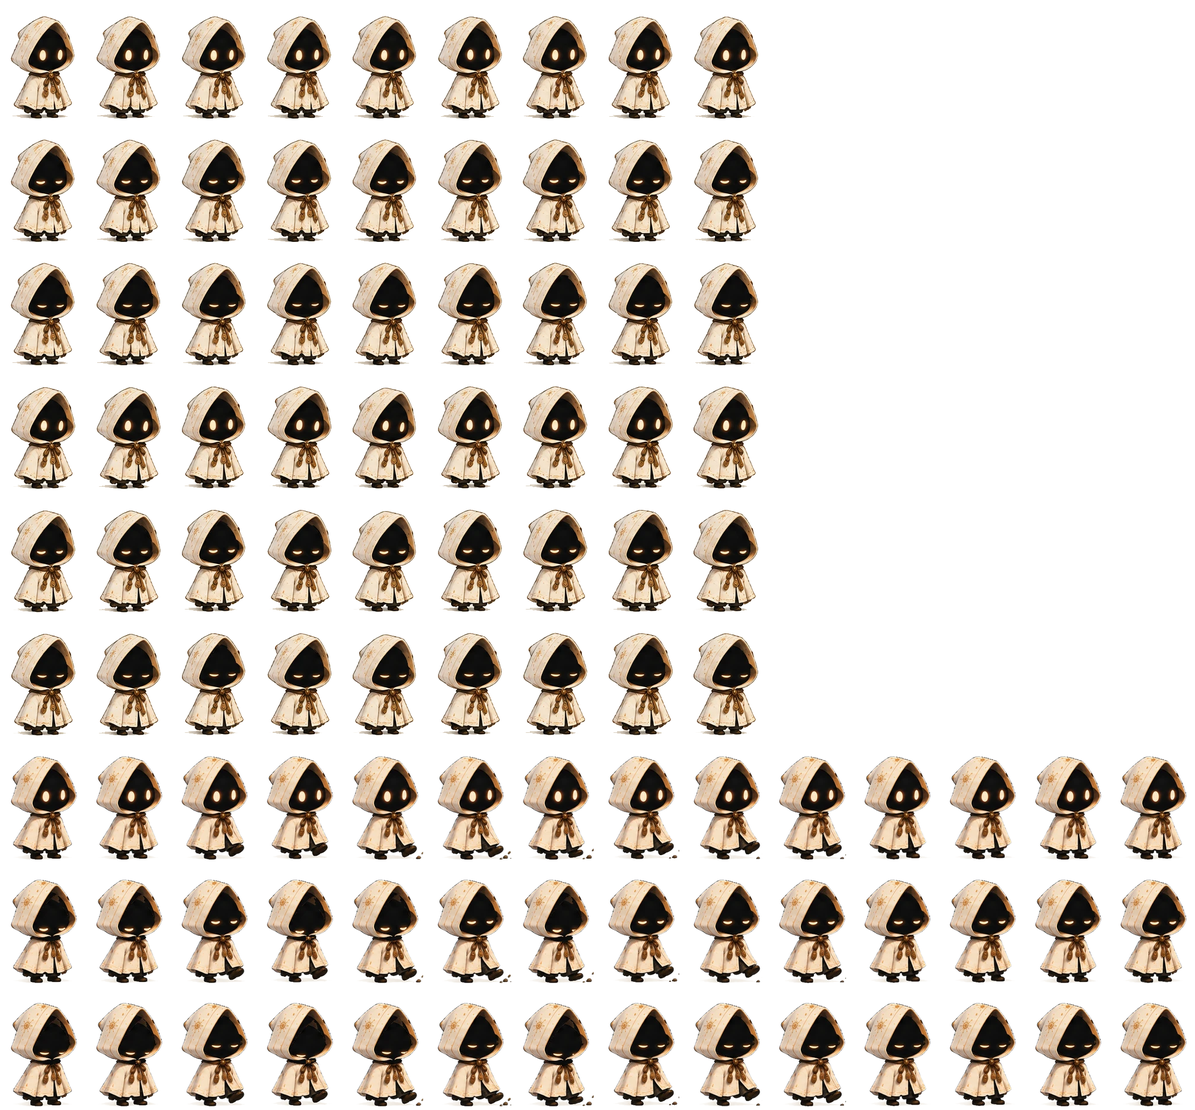
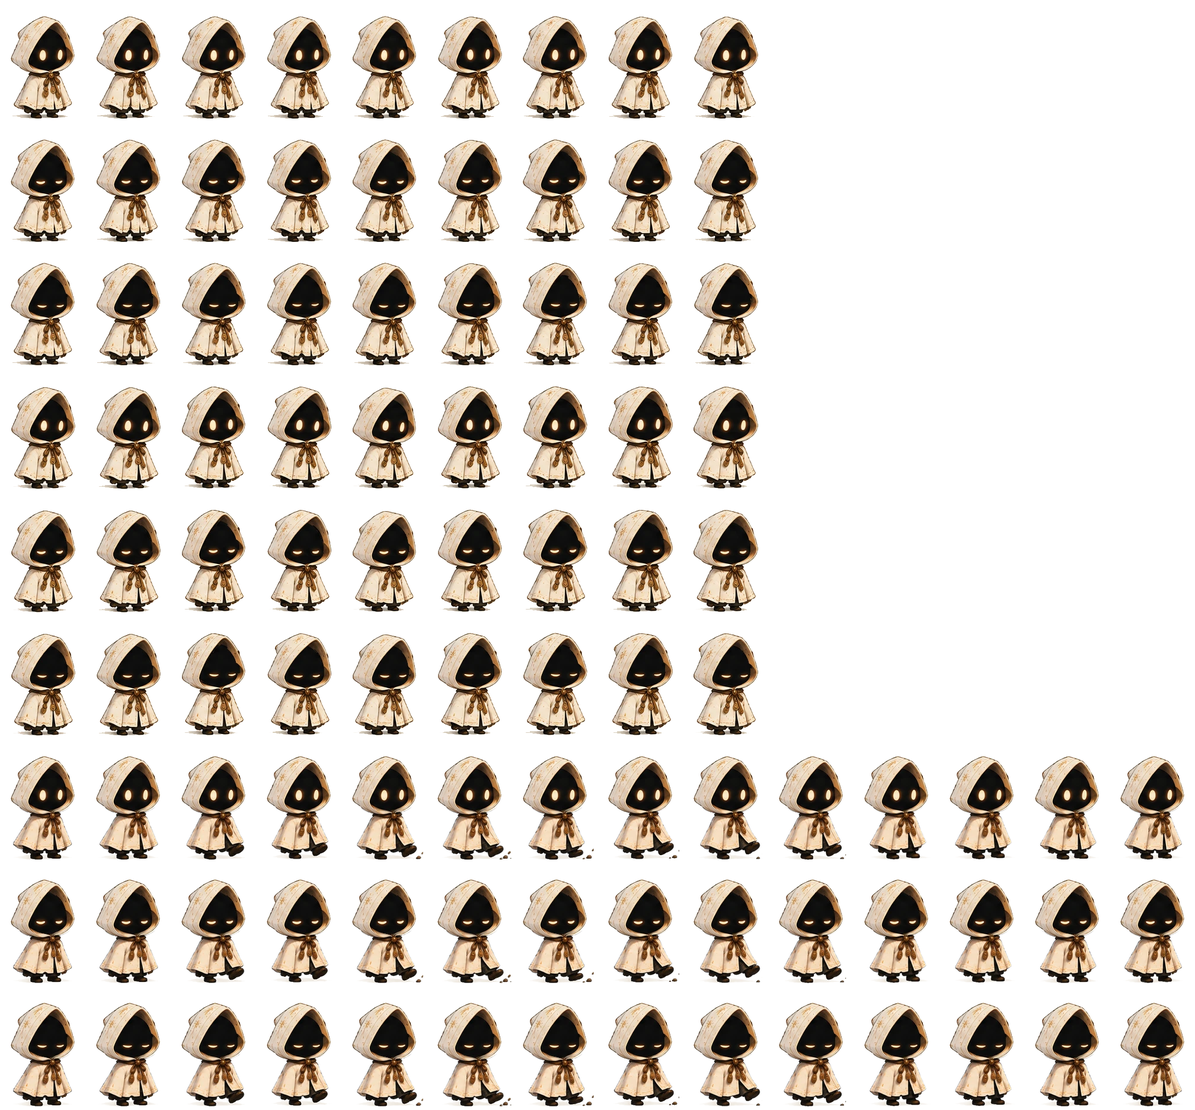
ux: no head turn at the hand-over — the foot frames hold the breath rest frame's head; a hand-over fades at the variation's pace both ways
- scripts/cut-lumi-idle.py: hold_head() takes a donor; the foot loop holds breath[0]'s head (blended in over the collar rows above the ribbon), so the head is one drawing through the loop and on both sides of the hand-over. The foot sheet's hood is not quite the slow-idle drawing, and the crossfade between them read as a small head turn — crisp on the way out, blurry on the way back.
- LumiCompanion: the fade length comes from the faster of the two loops involved (prev and cur), so the hand-over back to breathing fades in ~100ms like the one out, not 260ms.
- docs: design-system sprite + companion paragraphs; decisions entry.

Changed region(s): [[0.0, 0.6816, 1.0, 0.7436], [0.0, 0.8985, 1.0, 0.9605], [0.0, 0.7746, 1.0, 0.8675]]

diff --git a/src/components/shell/LumiCompanion.tsx b/src/components/shell/LumiCompanion.tsx
@@ -15,12 +15,15 @@ const FRAME_MS: Record<LumiLoop, number> = {
 /** Loops mixed into the breathing now and then, one pass at a time. */
 const VARIATIONS: LumiLoop[] = ["sway", "foot"];
 /**
- * How long a frame fades in over the last: most of its own frame time, so it
- * is fully in before the next arrives. A fixed 260ms on the foot's 120ms
- * frames left every frame a third of the way in when it was replaced and
- * snapped to full — a soft doubling of the hood wherever frames differed.
+ * How long a frame fades in over the last: most of the frame time of the
+ * faster of the two loops involved, so it is fully in before the next arrives.
+ * A fixed 260ms on the foot's 120ms frames left every frame a third of the way
+ * in when it was replaced and snapped to full — a soft doubling of the hood
+ * wherever frames differed. A hand-over fades at the variation's pace in both
+ * directions: the way out was crisp, the way back (at the breath's 260ms)
+ * read as a slow, blurry turn of the head.
  */
-const fadeMs = (loop: LumiLoop) => Math.min(260, Math.round(FRAME_MS[loop] * 0.8));
+const fadeMs = (a: LumiLoop, b: LumiLoop) => Math.min(260, Math.round(Math.min(FRAME_MS[a], FRAME_MS[b]) * 0.8));
 
 type Pose = { loop: LumiLoop; frame: number };
 const REST: Pose = { loop: "breath", frame: 0 };
@@ -157,7 +160,7 @@ export function LumiCompanion() {
           aria-label={onChat ? "Message Lumi" : "Say something to Lumi"}
           aria-expanded={onChat ? undefined : open}
         >
-          <span className="companion-figure" style={{ ...cellSize("body", HEIGHT), "--fade": `${fadeMs(pose.cur.loop)}ms` } as CSSProperties} aria-hidden>
+          <span className="companion-figure" style={{ ...cellSize("body", HEIGHT), "--fade": `${fadeMs(pose.cur.loop, pose.prev.loop)}ms` } as CSSProperties} aria-hidden>
             {stack.map((p, i) => (
               <LumiSprite
                 key={key(p)}

diff --git a/scripts/cut-lumi-idle.py b/scripts/cut-lumi-idle.py
@@ -249,21 +249,25 @@ def settle(cell, ref, reach=12, fine=1.0, step=0.25):
     return cell if fx == 0 and fy == 0 else shift(cell, fx, fy)
 
 
-def hold_head(cells, top=112, bottom=124):
-    """An animation hold: every frame keeps frame 0's head. The sheet is one
-    drawing with only the foot moving, but the generator still redrew the hood
-    rim and its sun a little each frame, which the crossfade showed as a soft
-    shimmer around her head. Blended in over the collar rows (`top`..`bottom`)
-    on premultiplied channels, so the seam sits under the chin, inside the figure."""
+def hold_head(cells, donor, top=112, bottom=124):
+    """An animation hold: every frame keeps the donor's head — the breath rest
+    frame's, so the head is the same drawing on both sides of the hand-over and
+    through the loop. (The foot sheet is one drawing with only the foot moving,
+    but the generator still redrew the hood rim and its sun a little each frame,
+    and its hood is not quite the slow-idle sheet's: under the crossfade both
+    read as a soft shimmer or a small head turn.) Blended in over the collar
+    rows (`top`..`bottom`) on premultiplied channels, so the seam sits under the
+    chin, inside the figure, above the ribbon; the cloak below keeps its own
+    movement, which the kick carries all the way up to the collar."""
     def pre(c):
         a = c[:, :, 3:4].astype(float) / 255
         return np.dstack([c[:, :, :3] * a, c[:, :, 3:4].astype(float)])
     def straight(p):
         a = np.clip(p[:, :, 3:4], 0, 255)
         return np.dstack([np.clip(p[:, :, :3] / np.maximum(a / 255, 1e-3), 0, 255), a]).astype(np.uint8)
-    w = np.clip((np.arange(H) - top) / (bottom - top), 0, 1)[:, None, None]  # 0 = frame 0's head, 1 = the frame's own
-    p0 = pre(cells[0])
-    return [cells[0]] + [straight((1 - w) * p0 + w * pre(c)) for c in cells[1:]]
+    w = np.clip((np.arange(H) - top) / (bottom - top), 0, 1)[:, None, None]  # 0 = the donor's head, 1 = the frame's own
+    p0 = pre(donor)
+    return [straight((1 - w) * p0 + w * pre(c)) for c in cells]
 
 
 def with_eyes(target, donor):
@@ -298,7 +302,7 @@ foot = [cut_foot(playful, boxes[i]) for i in FOOT_ORDER]
 # rest pose (so the hand-over doesn't step sideways), then the rest onto frame 0.
 foot[0] = settle(foot[0], breath[0])
 foot[1:] = [settle(c, foot[0]) for c in foot[1:]]
-foot = hold_head(foot)
+foot = hold_head(foot, breath[0])
 
 loops = [breath, sway, foot]
 sheet = np.zeros((H * 3 * len(loops), W * COLS, 4), dtype=np.uint8)

diff --git a/docs/design-system.md b/docs/design-system.md
@@ -84,13 +84,13 @@ Heading defaults: none imposed. Headings are display-font lines set per surface;
 A chapter opening, not a card (2026-09-12: the boxed `.card.plate` read as a widget dropped onto the page). Set on the paper itself the way a chapter begins in a book: a headpiece across the measure (hairline · asterism · hairline, `.opening-head`), Lumi's portrait medallion in the margin, the first line as the title (38px display), the second beneath it in the softer ink (26px), then the quick-start chips. Lines come from `core/ai/greeting.ts` — never hardcode copy in the component. It is the chapter mark of the transcript (`MessageList`): everything from before this page open above it, this visit below; the page opens scrolled to it. No rule or box between the earlier messages and the greeting — the headpiece and the white space are the break. Within a sitting (`compact`) it is a running head: the same headpiece, a 44px portrait, 26/20px lines, no chips. It matches Today's opener (avatar beside a display-serif greeting on bare paper), so the two pages open the same way.
 
 ### Lumi sprites (`components/chat/LumiSprite.tsx`)
-The single source of Lumi's drawings. `public/lumi-heads.png`: one row of 176px square cells cut from the original `lumi.png` character sheet (not kept) — neutral · blink · happy · curious · excited · sleepy. `public/lumi-idle.webp`: a 14×9 grid of 144×208 cells, three rows per loop (open, half-shut and shut eyes — the blink frames composited on, so blinking and the loops run together): rows 0–2 the nine-frame **breath** loop and rows 3–5 the nine-frame **sway** loop from `art/lumi-slow-idle.png`, rows 6–8 the fourteen-frame **playful foot** loop from `art/lumi-idle.png` (shorter loops leave their trailing columns empty; `LUMI_LOOP_FRAMES` holds each loop's length). Every frame is the same pose at the same scale, centred on the figure and anchored on the feet baseline (the sheet's own spacing wobbles, so its offsets read as a slide); every loop starts and ends at the rest frame, so they hand over there. Cut by `scripts/cut-lumi-idle.py`: paper is flood-filled from outside the figure, so the cream hood survives the matte; on a contrasting ground (`contrast=True`, the foot sheet's grey-blue) the edge band is de-matted against the ground using the nearest interior pixel as the figure's own colour, and the shadow is read by its blue cast and redrawn in the slow-idle sheet's warm shadow tone (`SHADOW_RGB`), so nothing cold or grey rims her on the paper. The foot sheet is sixteen in-betweened frames of one drawing where only the foot and the flicked-up dirt move (the earlier eight-frame sheet redrew the whole figure each frame, so she boiled and the foot jumped); it is drawn larger, so its frames are scaled to 0.71 (hood top and width land on the breath loop's pixels), centred on the figure like the rest and then **settled on the head silhouette** — frame 0 onto the breath rest frame, the others onto frame 0; whole pixels sideways, then a quarter-pixel refinement in both axes (cubic resample on premultiplied channels), because a frame half a pixel off its neighbour doubles the hood's edge under the crossfade — and then **held**: every frame keeps frame 0's head, blended in over the collar rows on premultiplied channels (`hold_head`), because the generator still redrew the hood rim and its sun a little each frame and the crossfade showed it as a shimmer. The head holds still while the foot kicks, exactly. The sheet is two scuffs with a full return to rest between them; the cut takes frames 1–7 and 10–16 so the loop is one eased kick out and back. (Centring frames on the dark face instead had her hop ~14px on every hand-over, since her face sits right of her hood's centre.) `LumiSprite` draws one cell at a height via `background-position`; `headCell` / `idleCell` address them. A new state is a new cell, never a new component.
+The single source of Lumi's drawings. `public/lumi-heads.png`: one row of 176px square cells cut from the original `lumi.png` character sheet (not kept) — neutral · blink · happy · curious · excited · sleepy. `public/lumi-idle.webp`: a 14×9 grid of 144×208 cells, three rows per loop (open, half-shut and shut eyes — the blink frames composited on, so blinking and the loops run together): rows 0–2 the nine-frame **breath** loop and rows 3–5 the nine-frame **sway** loop from `art/lumi-slow-idle.png`, rows 6–8 the fourteen-frame **playful foot** loop from `art/lumi-idle.png` (shorter loops leave their trailing columns empty; `LUMI_LOOP_FRAMES` holds each loop's length). Every frame is the same pose at the same scale, centred on the figure and anchored on the feet baseline (the sheet's own spacing wobbles, so its offsets read as a slide); every loop starts and ends at the rest frame, so they hand over there. Cut by `scripts/cut-lumi-idle.py`: paper is flood-filled from outside the figure, so the cream hood survives the matte; on a contrasting ground (`contrast=True`, the foot sheet's grey-blue) the edge band is de-matted against the ground using the nearest interior pixel as the figure's own colour, and the shadow is read by its blue cast and redrawn in the slow-idle sheet's warm shadow tone (`SHADOW_RGB`), so nothing cold or grey rims her on the paper. The foot sheet is sixteen in-betweened frames of one drawing where only the foot and the flicked-up dirt move (the earlier eight-frame sheet redrew the whole figure each frame, so she boiled and the foot jumped); it is drawn larger, so its frames are scaled to 0.71 (hood top and width land on the breath loop's pixels), centred on the figure like the rest and then **settled on the head silhouette** — frame 0 onto the breath rest frame, the others onto frame 0; whole pixels sideways, then a quarter-pixel refinement in both axes (cubic resample on premultiplied channels), because a frame half a pixel off its neighbour doubles the hood's edge under the crossfade — and then **held**: every foot frame keeps the **breath rest frame's** head, blended in over the collar rows above the ribbon on premultiplied channels (`hold_head`), because the generator redrew the hood rim and its sun a little each frame and its hood is not quite the slow-idle drawing — under the crossfade that read as a shimmer through the loop and a small blurry head turn at the hand-over back to breathing. The head is one drawing on both sides of the hand-over and through the loop; the cloak below the collar keeps the sheet's own movement, which the kick carries all the way up. The sheet is two scuffs with a full return to rest between them; the cut takes frames 1–7 and 10–16 so the loop is one eased kick out and back. (Centring frames on the dark face instead had her hop ~14px on every hand-over, since her face sits right of her hood's centre.) `LumiSprite` draws one cell at a height via `background-position`; `headCell` / `idleCell` address them. A new state is a new cell, never a new component.
 
 ### Lumi avatar (`components/chat/LumiAvatar.tsx`)
 Forest circle with the hooded head. Props: `size` (default 68) and `expression` (default `neutral`). Never larger than the text it accompanies; never decorative on its own.
 
 ### Lumi companion (`components/shell/LumiCompanion.tsx`)
-Lumi, full figure, standing a little in from the bottom-right corner of every page (`.companion`, fixed, 150px tall, ~104px wide at `right: 56px; bottom: 40px` — 28px/2px read as tucked into the corner). She is fixed to the viewport, outside the content column: on desktop `.chat-page` keeps a lane clear on its right (`--companion-lane`, 140px on top of `.main`'s 48px padding, added to the column's max-width) so the docked send button never sits under her at any width, whether the column fills `.main` or is centred inside it. Hidden under 768px, where there is no room for a lane, and the lane drops to 0. Idle life: the breath loop at ~320ms/frame (one breath ≈ 3s), every frame fading in **on top of** the previous so she never turns translucent (two frames mounted, keyed by loop and frame, the fade a mount animation — so a hand-over between loops fades like any other step; the fade lasts 80% of the current loop's frame time, capped at 260ms, via `--fade` on the figure — a fixed 260ms on 120ms frames left each frame a third of the way in when it was replaced and snapped to full, a soft doubling of the hood); every 20–45 s one pass of a variation — the sway at ~560ms/frame or the playful foot at ~120ms/frame (fourteen frames, ≈1.7s), never the same one twice running — then back to breathing; a blink every 2.5–6.5 s (half · shut · half, ~0.3s, occasionally doubled) by switching the eye row. No pose changes — the micro variations from `lumi-idle.png` read as image swaps and were dropped. All of it stops under `prefers-reduced-motion`. She is also the one control in the corner: `.companion-btn` wraps the figure (hover lifts her 3px; the global brass focus ring), and `.companion-bubble` is the speech bubble that opens above her — a 330px `--card` plate with a `--rule-strong` hairline, a 12px rotated-square tail over her head, a display-serif textarea (21px, grows to 120px) with a 40px `.send`, and above it the exchange (`.companion-said`: your line as a right-aligned `--paper-deep` bubble like the chat's `.msg-user`, 15px, sliding up 8px over 220ms on each send; `.companion-reply` at 17px with the chat `.ledger` beneath) under a hairline. Fades in over 160ms (off under reduced-motion). Stacks in the `.companion` flex column so she stays put when it opens. Testing note: Chrome freezes animations in a hidden tab (the Claude-in-Chrome automation window is usually occluded), and a capture of a frozen tab shows her mid-fade, ghostly — that is the capture, not the page. Dev only (`NODE_ENV === "development"`): `.companion-debug`, a row of tiny `.companion-debug-btn` chips fixed just above her head with a `.companion-debug-fold` handle at the right end that folds them away toward it (`.is-folded`, remembered in `localStorage`), cues a variation (played at the next rest frame, the same hand-over as a scheduled one) or a blink (now) via a `lumi:cue` window event — for checking the loops without waiting; hidden with her under 768px, and while the bubble is open (it sits where the bubble opens).
+Lumi, full figure, standing a little in from the bottom-right corner of every page (`.companion`, fixed, 150px tall, ~104px wide at `right: 56px; bottom: 40px` — 28px/2px read as tucked into the corner). She is fixed to the viewport, outside the content column: on desktop `.chat-page` keeps a lane clear on its right (`--companion-lane`, 140px on top of `.main`'s 48px padding, added to the column's max-width) so the docked send button never sits under her at any width, whether the column fills `.main` or is centred inside it. Hidden under 768px, where there is no room for a lane, and the lane drops to 0. Idle life: the breath loop at ~320ms/frame (one breath ≈ 3s), every frame fading in **on top of** the previous so she never turns translucent (two frames mounted, keyed by loop and frame, the fade a mount animation — so a hand-over between loops fades like any other step; the fade lasts 80% of the frame time of the faster of the two loops involved, capped at 260ms, via `--fade` on the figure — a fixed 260ms on 120ms frames left each frame a third of the way in when it was replaced and snapped to full, a soft doubling of the hood; and a hand-over fades at the variation's pace both ways, since the way back at the breath's 260ms read as a slow turn of the head); every 20–45 s one pass of a variation — the sway at ~560ms/frame or the playful foot at ~120ms/frame (fourteen frames, ≈1.7s), never the same one twice running — then back to breathing; a blink every 2.5–6.5 s (half · shut · half, ~0.3s, occasionally doubled) by switching the eye row. No pose changes — the micro variations from `lumi-idle.png` read as image swaps and were dropped. All of it stops under `prefers-reduced-motion`. She is also the one control in the corner: `.companion-btn` wraps the figure (hover lifts her 3px; the global brass focus ring), and `.companion-bubble` is the speech bubble that opens above her — a 330px `--card` plate with a `--rule-strong` hairline, a 12px rotated-square tail over her head, a display-serif textarea (21px, grows to 120px) with a 40px `.send`, and above it the exchange (`.companion-said`: your line as a right-aligned `--paper-deep` bubble like the chat's `.msg-user`, 15px, sliding up 8px over 220ms on each send; `.companion-reply` at 17px with the chat `.ledger` beneath) under a hairline. Fades in over 160ms (off under reduced-motion). Stacks in the `.companion` flex column so she stays put when it opens. Testing note: Chrome freezes animations in a hidden tab (the Claude-in-Chrome automation window is usually occluded), and a capture of a frozen tab shows her mid-fade, ghostly — that is the capture, not the page. Dev only (`NODE_ENV === "development"`): `.companion-debug`, a row of tiny `.companion-debug-btn` chips fixed just above her head with a `.companion-debug-fold` handle at the right end that folds them away toward it (`.is-folded`, remembered in `localStorage`), cues a variation (played at the next rest frame, the same hand-over as a scheduled one) or a blink (now) via a `lumi:cue` window event — for checking the loops without waiting; hidden with her under 768px, and while the bubble is open (it sits where the bubble opens).
 
 ### Ornaments (`components/ui/Ornament.tsx`)
 Printer's marks, the engraved vocabulary an old book uses instead of icons. Inline SVG in brass (`.ornament`), hairline weight, `aria-hidden`; they decorate, never carry meaning. Three glyphs: **Diamond** ✦ (the smallest mark: dividers, visit rules), **Fleuron** ❦ (the hedera, an ivy leaf with a curled stem: tailpieces, the sidebar foot), **Asterism** ⁂ (a pause in the text: the greeting's headpiece, where this visit begins after whatever was there). Two layouts: `Divider` (replaces the short rule under every kicker) and `Tailpiece` (closes an empty page). **One flourish per surface** — the greeting has its headpiece, a page has its tailpiece, a sitting break has its diamonds. If a surface already has one, it does not get another.

diff --git a/docs/decisions.md b/docs/decisions.md
@@ -2,7 +2,7 @@
 
 Append-only. One entry per decision that changes `architecture.md`, `domain.md` or the plan. Format: date · decision · why · what it replaces.
 
-- **2026-09-12 · A variation is drawn as in-betweens of one drawing, not as a set of poses.** The first playful-foot sheet (eight frames, each a fresh drawing) never read as motion even once its frames were anchored: the hood tip, ribbon and folds changed every frame so the figure boiled under the crossfade, and the foot covered most of its travel in one 200ms step — Chanté: "the transition isn't smooth and it doesn't look like real motion." It is replaced by `art/lumi-idle.png`, sixteen frames generated from one base drawing (only the foot and dirt move; the head silhouette overlaps frame 1 by ≥98% in every frame) on a flat ground, cut as one kick out and back (frames 1–7 + 10–16, dropping the mid-loop return to rest) at 120ms a frame. Rule for any new sheet: one drawing, only the moving part changes, twelve or more eased in-betweens, a flat contrasting background, frame 1 = the breath rest pose. A contrasting ground needs its own matte (the cream sheets' tolerance read the grey-blue shadow and anti-aliased edge as figure, giving her a cold shadow and a grey rim): edges are de-matted against the known ground, the shadow is found by its blue cast and redrawn warm. The sprite grid widens to the longest loop (14 columns). Even so the generator redrew the hood rim and its sun a little per frame, so the cut settles each frame on the head to a quarter pixel and then holds frame 0's head on every frame (an animation hold, blended in under the chin); the fade lasts 80% of a loop's frame time rather than a fixed 260ms, so a 120ms frame is fully in before the next arrives. Chanté: "foot is a little blurry around the head near the end."
+- **2026-09-12 · A variation is drawn as in-betweens of one drawing, not as a set of poses.** The first playful-foot sheet (eight frames, each a fresh drawing) never read as motion even once its frames were anchored: the hood tip, ribbon and folds changed every frame so the figure boiled under the crossfade, and the foot covered most of its travel in one 200ms step — Chanté: "the transition isn't smooth and it doesn't look like real motion." It is replaced by `art/lumi-idle.png`, sixteen frames generated from one base drawing (only the foot and dirt move; the head silhouette overlaps frame 1 by ≥98% in every frame) on a flat ground, cut as one kick out and back (frames 1–7 + 10–16, dropping the mid-loop return to rest) at 120ms a frame. Rule for any new sheet: one drawing, only the moving part changes, twelve or more eased in-betweens, a flat contrasting background, frame 1 = the breath rest pose. A contrasting ground needs its own matte (the cream sheets' tolerance read the grey-blue shadow and anti-aliased edge as figure, giving her a cold shadow and a grey rim): edges are de-matted against the known ground, the shadow is found by its blue cast and redrawn warm. The sprite grid widens to the longest loop (14 columns). Even so the generator redrew the hood rim and its sun a little per frame, so the cut settles each frame on the head to a quarter pixel and then holds the breath rest frame's head on every foot frame (an animation hold, blended in under the chin above the ribbon) — one head drawing through the loop and on both sides of the hand-over, since the foot sheet's hood is not quite the slow-idle one and the crossfade between them read as a small head turn; the fade lasts 80% of the faster loop's frame time rather than a fixed 260ms, so a 120ms frame is fully in before the next arrives and a hand-over is as crisp on the way back as on the way out. Chanté: "foot is a little blurry around the head near the end" · "smooth when she turns her head before the kick, a bit blurry when she turns her head after."
 - **2026-09-12 · Idle frames are anchored on what holds still, measured — not on a detected feature.** The playful-foot frames were centred on the dark face; the face reads differently frame to frame (hood tilt, eye area) and sits right of the hood's centre, so Lumi hopped ~14px at every hand-over from breathing and wandered ~5px through the kick — Chanté: "the centre isn't consistent through the movement and the character jumps around." Now every loop is centred on the figure and the foot frames are then settled sideways by best overlap of the head silhouette (frame 0 onto the breath rest frame, the rest onto frame 0); the scale is chosen so hood top and chin match the breath loop. Feet stay on the baseline; the small vertical head movement drawn into the kick is kept. Replaces "centred on the face".
 - **2026-09-12 · The context block carries what just changed, by whoever changed it.** Chanté ticked an item off by mistake, asked Lumi to add back "the item I just deleted", and Lumi asked what it was: the tick went through `/api/intentions`, wrote its event, and never touched the transcript. Now every chat turn loads the last 36h of `intention.*` events joined to their intentions (`core/domain/activity.ts`) into a *Recent changes* section, phrased by actor (`payload.via: "app" | "chat"` on `.completed` / `.reopened`; other types are chat-only today), with ids and current status; *Recently done* gains ids; the persona says act on it rather than ask; and `reopen_intention` exists so the fix is un-ticking, not a duplicate. Considered and rejected: pushing a hidden "user ticked X" message into the conversation (forks the transcript — decision 11 keeps one transcript) and reading the events into `loadSnapshot` (every page would pay the query; only chat reads it). Events stay the one source; nothing is parsed from prose.
 - **2026-09-12 · Lumi's sheets live in `art/`.** The folder that held the design mockups now holds only her animation sheets, so it is committed as `art/` (README inside) — the cut script reads `lumi-slow-idle` and `lumi-playful-foot` from it, and `lumi-stretch` waits there for a cut. Earlier entries that say `mockups/…` mean this folder; the mockups themselves were never checked in.
